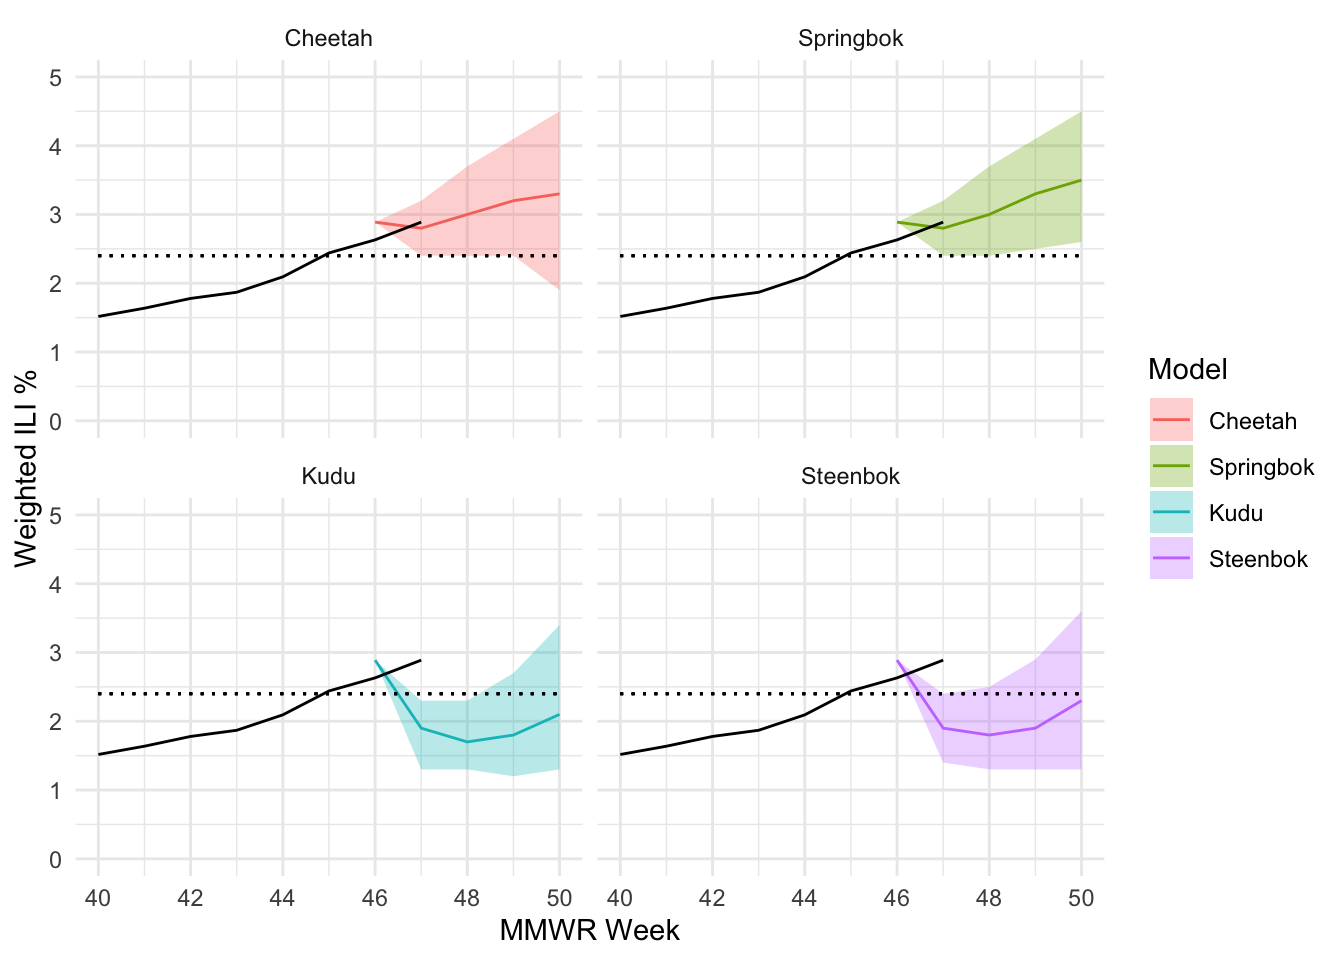
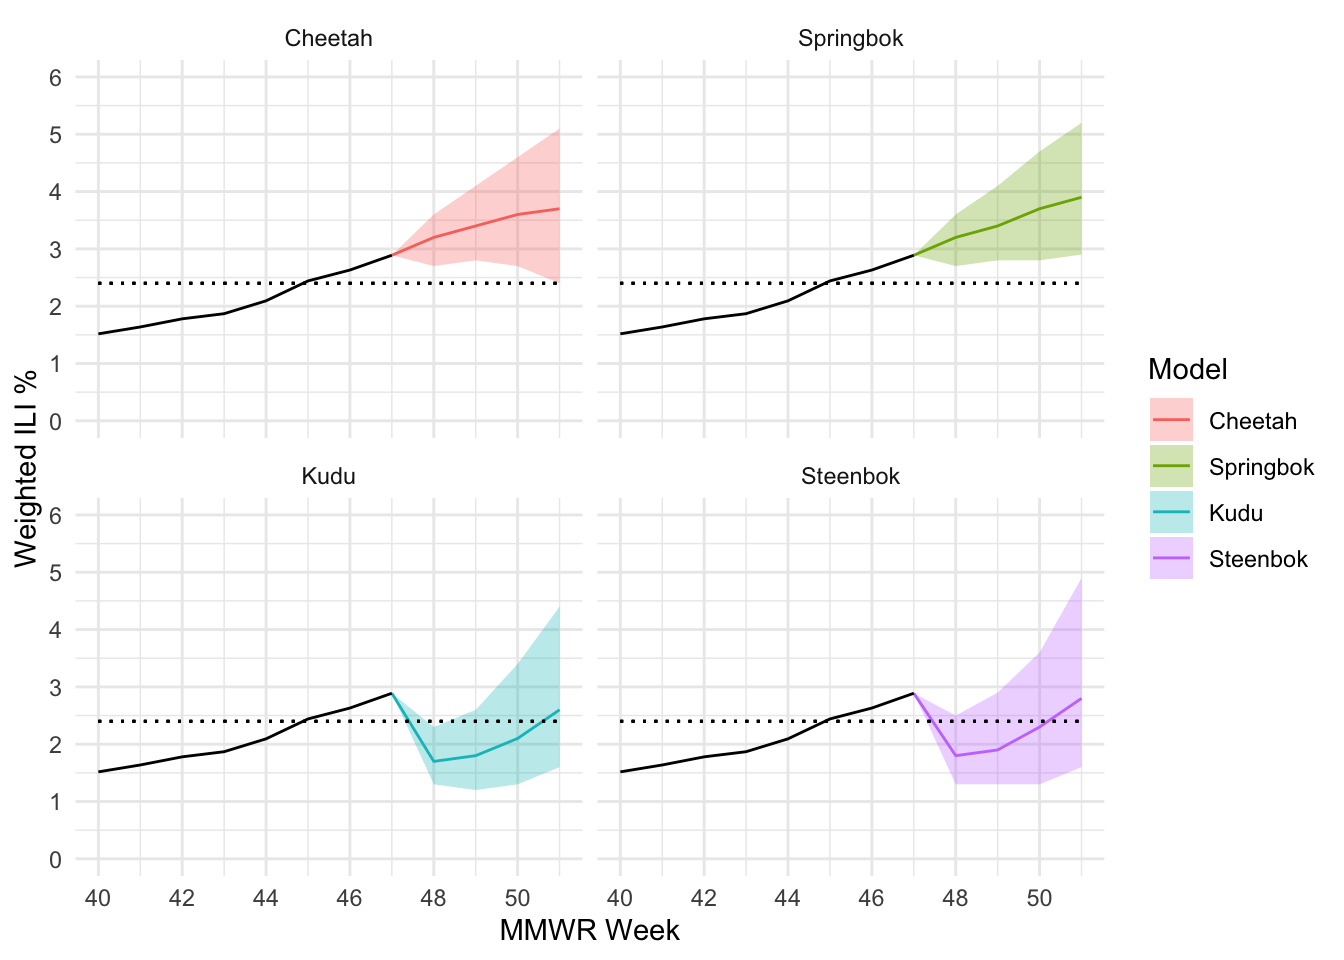
Fix error in README

diff --git a/README.md b/README.md
@@ -14,8 +14,8 @@ from multiple forecasting teams.
 
 ### Current forecasts
 
-Forecasts are based on data from MMWR week 46, which encompasses Nov 10,
-2019 to Nov 16, 2019. For interactive forecasts, please visit the
+Forecasts are based on data from MMWR week 47, which encompasses Nov 17,
+2019 to Nov 23, 2019. For interactive forecasts, please visit the
 [CDC](http://predict.cdc.gov) or [FluSight
 Network](http://flusightnetwork.io/) pages. The plots below illustrate
 the forecasts for weighted percentage of outpatient visits due to
